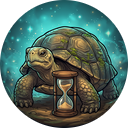
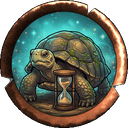
Oberfläche: geschmiedete Ringe der Zug-Medaillons (Hammerschlag, Kerben je Zug), Skript tools/zugmedaillons/schmiede.gd
Claude-Session: https://claude.ai/code/session_016Yw37qCSJMoMyzR6gmxRFS

diff --git a/game/scripts/CharakterAnzeige.cs b/game/scripts/CharakterAnzeige.cs
@@ -254,9 +254,9 @@ public partial class CharakterAnzeige : PanelContainer
     }
 
     /// <summary>
-    /// Ein rundes Medaillon: das gemalte Bild (ohne Rahmen) und darüber ein schlichter, dünner Metallring nach Art des Zugs
-    /// (Persönlichkeit Kupfer, angeboren Gold, erworben Eisen), abgeschrägt wie bei Warcraft-3-Knöpfen: Lichtkante oben links,
-    /// Schatten unten rechts. Ohne Bild steht der Anfangsbuchstabe im Ring.
+    /// Ein rundes Medaillon: das gemalte Bild mit geschmiedetem Metallring nach Art des Zugs (Persönlichkeit Kupfer, angeboren Gold,
+    /// erworben Eisen; Hammerschlag, Kerben je Zug an anderer Stelle – schon im Bild). Fehlt das Bild, zeichnet das Fenster einen
+    /// schlichten, abgeschrägten Ring in derselben Farbe mit dem Anfangsbuchstaben.
     /// </summary>
     private sealed partial class ZugIcon : Control
     {
@@ -291,20 +291,20 @@ public partial class CharakterAnzeige : PanelContainer
 
         public override void _Draw()
         {
+            // Die Bilder bringen ihren geschmiedeten Ring schon mit
+            if (_bild is not null)
+            {
+                DrawTextureRect(_bild, new Rect2(0, 0, Seite, Seite), false);
+                return;
+            }
             var mitte = new Vector2(Seite, Seite) / 2;
             var aussen = Seite / 2f;
-            // Das Bild reicht bis unter die Mitte des Rings, damit kein Spalt bleibt
-            var r = aussen - Ring / 2;
-            if (_bild is not null) DrawTextureRect(_bild, new Rect2(mitte - new Vector2(r, r), new Vector2(r, r) * 2), false);
-            else
-            {
-                DrawCircle(mitte, r, new Color(0.16f, 0.14f, 0.12f));
-                var font = ThemeDB.FallbackFont;
-                var buchstabe = _zug.Name.Length > 0 ? _zug.Name[..1].ToUpperInvariant() : "?";
-                var groesse = font.GetStringSize(buchstabe, HorizontalAlignment.Left, -1, 24);
-                DrawString(font, new Vector2(mitte.X - groesse.X / 2, mitte.Y + 8), buchstabe, HorizontalAlignment.Left, -1, 24, new Color(0.92f, 0.88f, 0.80f));
-            }
-            // Ring in Stücken: je nach Richtung zum Licht heller oder dunkler
+            DrawCircle(mitte, aussen - Ring / 2, new Color(0.16f, 0.14f, 0.12f));
+            var font = ThemeDB.FallbackFont;
+            var buchstabe = _zug.Name.Length > 0 ? _zug.Name[..1].ToUpperInvariant() : "?";
+            var groesse = font.GetStringSize(buchstabe, HorizontalAlignment.Left, -1, 24);
+            DrawString(font, new Vector2(mitte.X - groesse.X / 2, mitte.Y + 8), buchstabe, HorizontalAlignment.Left, -1, 24, new Color(0.92f, 0.88f, 0.80f));
+            // Ring in Stücken (Warcraft-3-Abschrägung): je nach Richtung zum Licht heller oder dunkler
             var farbe = Rahmen(_zug.Art);
             for (var i = 0; i < Stuecke; i++)
             {

diff --git a/docs/ARCHITEKTUR.md b/docs/ARCHITEKTUR.md
@@ -241,7 +241,7 @@ Ein neuer Raum eines Berufs, der keinen der vorhandenen Räume im Modell hat, ka
 - **Zurückhalten:** `Betrieb.Zurueckgehalten` (sortiert, gespeichert) – `Verkaufsware` lässt diese Waren aus. `WareZurueckhalten` schaltet; ein Einkauf, der keine Zutat ist, wird automatisch zurückgehalten. Die KI nutzt nichts davon – Messungen bleiben Wurf für Wurf gleich.
 - **Waren-Icons** (`WarenIcons`): gemalte Knöpfe, 128 × 128, aus `res://assets/oberflaeche/icons/<ware>.png`, Dateiname wie im Bauskript (Umlaute → ae/oe/ue). Angezeigt mit `TextureFilter.LinearWithMipmaps` (Importeinstellung `mipmaps/generate=true`). Fehlt ein Icon, steht der Anfangsbuchstabe da – neue Waren in den Daten brechen also nichts. Zusammengesetzt von `tools/icons/knoepfe_bauen.gd` (Godot, headless: `godot --headless --path game --script ../tools/icons/knoepfe_bauen.gd -- bauen`): Hintergrund nach Beruf, Motiv (freigestellt, mit Lichthof, hellem Saum und Schlagschatten), Rahmen nach Stufe (7 % der Kante, als 9-Slice gestaucht). Beruf und Stufe je Ware liest das Skript aus `wirtschaft.json` (niedrigste Stufe, in der die Ware vorkommt; Waren ohne Betrieb sind Rohstoffe: Holzrahmen, Lehmbraun). Die Zwischenteile liegen als 256-px-PNG in `tools/icons/quellen/` (rahmen, hintergrund, motiv): Ein Neubau oder eine Änderung (z. B. neuer Rahmen) braucht keine neue Bilderzeugung, `quellen <Ordner>` bereitet neue Rohbilder auf. Die Rohbilder stammen von Gemini (siehe Bereichsdatei Oberfläche).
 - **Porträts** (PR #211, `game/scripts/PortraetAnzeige.cs`, `game/assets/shader/portraet.gdshader`): Ein `Control` aus drei Kindern – Hintergrund (`hintergrund_<standgruppe>.webp`), Silhouette als Ersatz, Person (`<volk>/<geschlecht>_<gesicht>_<alter>_<kleidung>.webp` unter `res://assets/oberflaeche/portraets/`, 512 px, freigestellt). Nur die Person trägt das Material: Der Shader färbt Haar und Augen über Graustufen-Masken (`…_haar.webp`, `…_augen.webp`; weiß = Haar bzw. Iris) auf die Palettenfarbe um – die Helligkeit des Bildes bleibt –, blendet im Augenband das Bild mit geschlossenen Augen (`<geschlecht>_<gesicht>_<alter>_zu.webp`) ein (Blinzeln), skaliert um „unten Mitte“ (Atmen, ±0,6 %) und verschiebt nach unten (Nicken). Kerzenlicht ist ein Farbstich (`Modulate`) auf dem ganzen Control, aus in der Grafikstufe Niedrig. Bildformat .webp (Rückfall .png). Fehlende Dateien sind kein Fehler: ohne Person eine Silhouette, ohne Masken die Farben des Bildes, ohne `_zu`-Bild kein Blinzeln. Bilder werden beim ersten Laden mit Mipmaps versehen (`Laden`), sonst flimmert das 512-px-Bild bei 64 px. `Zeigen(Familienbuch, Person)` holt Stand, Kleidung und Alter aus dem Kern und lädt nur bei einer Änderung neu; Hilfen: `ZeigenHaus` (Oberhaupt eines Hauses), `ZeigenAmt`, `ZeigenRatsherr`. Größen: `Gross` 256, `Mittel` 128, `Klein` 64. Die Seite „Euer Oberhaupt“ steht in `Hauptmenue.cs` (`OberhauptTafel`).
-- **Charakterfenster** (PR #227, `game/scripts/CharakterAnzeige.cs`, `Hauptszene.Charakter.cs`): Ein frei ziehbares Fenster (`Fensterrahmen`, festhaltbar, Standardplatz rechts) in der Oberfläche der Hauptszene. Geöffnet wird es über zwei statische Haken in `PortraetAnzeige` (`PersonOeffnen`, `RatsherrOeffnen`), die die Hauptszene setzt: `Zeigen(Familienbuch, Person)` und `ZeigenRatsherr` binden das Porträt an die Person, ein Linksklick ruft den Haken – so öffnet jedes Porträt im Spiel das Fenster, ohne dass die Tafeln etwas davon wissen. Porträts ohne Person (Hauptmenü, Personalbuch der Vorarbeiter) öffnen nichts (`Zeigen` mit Volk, Geschlecht … löst die Bindung). Das Fenster hält einen Verlauf (Klick auf ein Familienmitglied, „Zurück“), baut sich zum Jahreswechsel neu auf und liest nur `Person.Anlage/Talent/Zuege`, `Familienbuch.Verwandte` und `Ratsherr.Zuege/Bestechlichkeit`. `SterneFeld` zeichnet die Sterne selbst (Polygon, geschnitten mit Geometry2D: golden Anlage, grün Zugbonus, rot Abzug), `ZugIcon` das runde Medaillon (64 px): das Bild `res://assets/oberflaeche/zuege/<kennung>.png` (128 px, rund, ohne Rahmen) und darüber einen selbst gezeichneten, 4 px dünnen Ring in der Farbe der `Zugart` (Kupfer, Gold, Eisen), in 72 Stücken je nach Richtung zum Licht (oben links) heller oder dunkler, mit feinen dunklen Kanten; fehlt das Bild, steht der Anfangsbuchstabe im Ring. Der Lexikon-Platzhalter `{wert:zuege_liste}` listet alle Züge mit Wirkung aus dem Katalog.
+- **Charakterfenster** (PR #227, `game/scripts/CharakterAnzeige.cs`, `Hauptszene.Charakter.cs`): Ein frei ziehbares Fenster (`Fensterrahmen`, festhaltbar, Standardplatz rechts) in der Oberfläche der Hauptszene. Geöffnet wird es über zwei statische Haken in `PortraetAnzeige` (`PersonOeffnen`, `RatsherrOeffnen`), die die Hauptszene setzt: `Zeigen(Familienbuch, Person)` und `ZeigenRatsherr` binden das Porträt an die Person, ein Linksklick ruft den Haken – so öffnet jedes Porträt im Spiel das Fenster, ohne dass die Tafeln etwas davon wissen. Porträts ohne Person (Hauptmenü, Personalbuch der Vorarbeiter) öffnen nichts (`Zeigen` mit Volk, Geschlecht … löst die Bindung). Das Fenster hält einen Verlauf (Klick auf ein Familienmitglied, „Zurück“), baut sich zum Jahreswechsel neu auf und liest nur `Person.Anlage/Talent/Zuege`, `Familienbuch.Verwandte` und `Ratsherr.Zuege/Bestechlichkeit`. `SterneFeld` zeichnet die Sterne selbst (Polygon, geschnitten mit Geometry2D: golden Anlage, grün Zugbonus, rot Abzug), `ZugIcon` das runde Medaillon (64 px): das Bild `res://assets/oberflaeche/zuege/<kennung>.png` (128 px) mit eingebackenem, geschmiedetem Ring nach Art (Kupfer, Gold, Eisen; gerechnet vom Skript `tools/zugmedaillons/schmiede.gd`); fehlt das Bild, zeichnet `ZugIcon` einen schlichten, 4 px dünnen Ring in der Farbe der `Zugart`, in 72 Stücken je nach Richtung zum Licht (oben links) heller oder dunkler, mit dem Anfangsbuchstaben. Der Lexikon-Platzhalter `{wert:zuege_liste}` listet alle Züge mit Wirkung aus dem Katalog.
 - **Schriften** (`game/scripts/Schriften.cs`, Dateien in `res://assets/oberflaeche/schriften/`): **Alegreya** für allen Text, **Germania One** (gebrochene Schrift) für Überschriften und Namen in der Stadt. Der Autoload `Fenster` ruft beim Start `Schriften.Einrichten` auf: Alegreya wird Schrift des Standard-Themas und Ersatzschrift (`ThemeDB`), und ein Ereignis `SceneTree.NodeAdded` gibt jedem Label mit Größe ab 20 px Germania One, allen kleineren Labels mit fester Größe 1 px mehr (Alegreya hat kleinere Kleinbuchstaben als die alte Schrift). So brauchen die Tafeln – auch die anderer Chats – keine eigene Zeile. Alegreya läuft mit den OpenType-Merkmalen `lnum` (Ziffern in Versalhöhe statt Mediävalziffern) und `tnum` (alle Ziffern gleich breit), damit Gulden-Spalten sauber untereinander stehen. Fehlt Germania ein Zeichen, springt Alegreya ein (`Fallbacks`). Beim Beenden ruft `Fenster._ExitTree` `Schriften.Freigeben` (Thema und Ersatzschrift lassen los, die statischen Schriften werden freigegeben) und lässt die Müllabfuhr von C# laufen (`GC.Collect`, `GC.WaitForPendingFinalizers`), solange Godot noch ganz steht – sonst kann die letzte Freigabe nach dem Textserver kommen (Leck „DummyTexture“ oder Absturz im Rauchtest, PR #100).
 - **Namen in der Stadt:** `Beschriftung(…, kennung)` in der Stadtansicht: Mit Kennung (dieselbe wie die Klickfläche) ist die Beschriftung zunächst unsichtbar. `BeschriftungenZeigen()` schießt jedes Bild einen Strahl unter die Maus (`KennungBei`, wie beim Klick) und zeigt den Namen des Gebäudes darunter, des ausgewählten (`Stadtansicht.Auswahl`, setzt die Hauptszene) und mit gedrückter Alt-Taste alle. Steht die Maus über einer Tafel (`GuiGetHoveredControl`), zählt die Stadt dahinter nicht. Im Innenraum sind die Namen aus; Beschriftungen ohne Kennung (Kistenschilder, Infotafeln) bleiben immer sichtbar.
 - **Vollbild, Kantenglättung, Schattenqualität, Bloom, Umgebungsverdeckung, indirektes Licht und FSR:** Autoload `Fenster` (`project.godot` → `[autoload]`) hält die Einstellungen, wendet sie beim Start an und speichert sie in `user://einstellungen.cfg` (Abschnitt `anzeige`, Schlüssel `vollbild`, `kantenglaettung`, `schattenqualitaet`, `bloom`, `bloomstaerke`, `ssao`, `ssil`, `fsr` und `renderaufloesung`; fehlen sie in einer alten Datei, gilt Bloom An mit 50 %, Umgebungsverdeckung Mittel, indirektes Licht aus, FSR aus mit 67 %). Der Bloom ist der Glow der beiden `Environment`s (Stadt `_umgebung`, Raumansicht `_raumUmgebung`): `Fenster.BloomSetzen` löst das Ereignis `BloomGeaendert` aus, die Stadtansicht stellt beide Umgebungen sofort um (`BloomAnwenden`, siehe „Bloom“ unten). Die Schattenqualität setzt Größe der Schattenkarte und Filter am `RenderingServer`; Bias und Blur der Sonne passt die Stadtansicht im nächsten Bild selbst an (siehe „Schatten“). Die Kantenglättung wird am Hauptfenster (`GetTree().Root`) gesetzt: `Msaa3D`, `ScreenSpaceAA` (FXAA/SMAA) oder `UseTaa` – immer nur eines. **FSR 2.2** (`Fenster.FsrSetzen`) setzt am selben Fenster `Scaling3DMode = Fsr2` und `Scaling3DScale = Prozent/100` (aus: `Bilinear`, 1,0; Godot stellt den Mipmap-Bias dabei selbst nach `log2(Scale)` ein). Solange FSR an ist, hält `KantenglaettungAnwenden` MSAA, FXAA/SMAA und TAA aus (FSR 2 ist selbst ein zeitliches Verfahren mit Kantenglättung: Godot schaltet TAA dabei von selbst ab, Warnung „FSR 2 or MetalFX Temporal is not compatible with TAA“ in `renderer_viewport.cpp`; MSAA liefe auf dem kleinen Bild und kostete Leistung für Kanten, die FSR aus den Bildfolgen ohnehin glättet, FXAA/SMAA würden das scharf hochgerechnete Bild wieder verwischen); die gewählte Art bleibt in `AktuelleKantenglaettung` und gilt wieder, wenn FSR aus ist, `EinstellungenAnzeige` graut die Auswahl solange aus. Die **Umgebungsverdeckung** (SSAO) und das **indirekte Licht** (SSIL) sind Felder des `Environment`: `Fenster.UmgebungsverdeckungSetzen` und `IndirektesLichtSetzen` lösen `VerdeckungGeaendert` aus, die Stadtansicht stellt beide Umgebungen sofort um (`VerdeckungAnwenden`, siehe „Umgebungsverdeckung“ unten); die Güte (Probenzahl, halbe oder volle Auflösung) setzt `Fenster` global am `RenderingServer` (`EnvironmentSetSsaoQuality`, `EnvironmentSetSsilQuality`). Alle 3D-Ansichten zeichnen in dieses Fenster, eigene `SubViewport`s gibt es nicht; käme einer dazu, muss er die Einstellung übernehmen. Das Fenster `EinstellungenAnzeige` wird im Hauptmenü und im Spielmenü (an dessen Stelle, Esc führt zurück) verwendet.

diff --git a/README.md b/README.md
@@ -321,7 +321,7 @@ Zum Ausprobieren (gilt nur für diesen Start): `--voreinstellung=Ultra`, `--tilt
 
 **Porträts.** Jede Person der Dynastien hat ein gemaltes Porträt (kolorierter Holzschnitt): der Hintergrund zeigt den Stand (Lehmwand, Holzvertäfelung, Wandteppich, Gewölbe), die Kleidung wechselt beim Aufstieg zum Patrizier, das Alter ändert das Gesicht (Kind, jung, mittel, alt). Beim Start wählst du auf der Seite **„Euer Oberhaupt“** Volk, Geschlecht, eines von fünf Gesichtern und Haar- und Augenfarbe (nur Farben, die zum Volk passen); Kinder erben Gesicht und Farben der Eltern. Die Bilder leben ein wenig: Sie **blinzeln**, **atmen**, flackern im **Kerzenlicht** (in der Grafikstufe Niedrig aus) und **nicken** bei Zustimmung im Rat. Zu sehen sind sie oben links in der Kopfzeile, in der **Familie** (Oberhaupt, Ehepartner, Kinder, Brautschau), im **Rat** (Inhaber der Ämter), in der **Ratssitzung** (wer gerade spricht oder stimmt) und im **Bericht** bei den Rivalen. Fehlt ein Bild (die Porträts der übrigen Völker folgen), steht eine Silhouette vor dem Hintergrund.
 
-**Charakterfenster.** Ein Klick auf ein Porträt (Familie, Rat, Rivalen im Bericht, Kopfzeile) öffnet das Charakterfenster: großes Porträt, Name, Volk, Alter, Rolle im Haus, Stand, Amt und Glaube. Die **Talente** stehen als sechs Sterne: golden die Anlage, **grün** die Sterne, die Charakterzüge dazugeben, **rot** die, die ein Zug oder eine Krankheit abzieht; der Tooltip rechnet vor („Anlage 3, Gierig +1, Husten −1“). Die **Charakterzüge** sind runde, gemalte Medaillons in drei Gruppen mit schlichtem Metallring – Persönlichkeit (Kupfer), angeboren (Gold), erworben (Eisen), jedes mit eigenem Motiv und eigener Leuchtfarbe (Gierig eine Hand voller Gulden, Mutig ein Löwe, Klug eine Eule auf einem Buch …); der Tooltip nennt Beschreibung, Wirkung und Gegenteil und verweist ins Lexikon (Eintrag „Charakterzüge“ mit allen Zügen). Unten steht die **Familie** als kleine Porträts: Ein Klick darauf zeigt deren Fenster, „‹ Zurück“ geht zur vorigen Person. Das Fenster lässt sich ziehen und mit der Nadel festhalten. Bei Ratsherren stehen Volk, Amt, Glaube, Züge und die **Bestechlichkeit** (wie stark Geschenke wirken) – ohne Talente und Familie. Charakterzüge gibt es erst in neuen Partien; ältere Spielstände laden ohne sie.
+**Charakterfenster.** Ein Klick auf ein Porträt (Familie, Rat, Rivalen im Bericht, Kopfzeile) öffnet das Charakterfenster: großes Porträt, Name, Volk, Alter, Rolle im Haus, Stand, Amt und Glaube. Die **Talente** stehen als sechs Sterne: golden die Anlage, **grün** die Sterne, die Charakterzüge dazugeben, **rot** die, die ein Zug oder eine Krankheit abzieht; der Tooltip rechnet vor („Anlage 3, Gierig +1, Husten −1“). Die **Charakterzüge** sind runde, gemalte Medaillons in drei Gruppen mit geschmiedetem Metallring (Hammerschlag, Kerben von Hieben) – Persönlichkeit (Kupfer), angeboren (Gold), erworben (Eisen), jedes mit eigenem Motiv und eigener Leuchtfarbe (Gierig eine Hand voller Gulden, Mutig ein Löwe, Klug eine Eule auf einem Buch …); der Tooltip nennt Beschreibung, Wirkung und Gegenteil und verweist ins Lexikon (Eintrag „Charakterzüge“ mit allen Zügen). Unten steht die **Familie** als kleine Porträts: Ein Klick darauf zeigt deren Fenster, „‹ Zurück“ geht zur vorigen Person. Das Fenster lässt sich ziehen und mit der Nadel festhalten. Bei Ratsherren stehen Volk, Amt, Glaube, Züge und die **Bestechlichkeit** (wie stark Geschenke wirken) – ohne Talente und Familie. Charakterzüge gibt es erst in neuen Partien; ältere Spielstände laden ohne sie.
 
 **Talente und Ausbildung.** Jede Person hat fünf Talente mit 0 bis 6 Sternen: **Verhandeln** (bessere Markterlöse), **Handwerkskunst** (mehr Leistung aller Arbeitskräfte), **Bei Nacht und Nebel** (Gaunerstücke gelingen öfter, Zeugen sehen weniger), **Kampf** (stärkere Wegelagerer, besser geschützte eigene Karren) und **Rhetorik** (Ratswahlen, Plädoyer vor Gericht, Brautgeschenke). Es zählen die Talente des Oberhaupts, der Erbe ist also eine echte Entscheidung. Die Völker bringen Anlagen mit: Zwerge sind die besten Handwerker, Elben die besten Redner, Halblinge die geschicktesten Gauner. Dazu kommen **Völkerboni je Beruf** (±5 % Leistung und damit Erfahrung, nach dem Volk des Oberhaupts): Menschen als Tischler und Gardist +5 % und ohne Schwächen; Zwerge als Schmied, Steinmetz und Geldleiher +5 %, als Dieb und Parfumeur −5 %; Elben als Alchimist, Prediger und Parfumeur +5 %, als Steinmetz und Gardist −5 %; Halblinge als Wirt und Dieb +5 %, als Schmied und Gardist −5 %. Die KI wählt ihre Zweitberufe danach. Kinder erben die Hälfte vom Mittel der Eltern, den Rest von ihrem Volk, und die Brautschau zeigt die Stärken jedes Kandidaten. In der zweiten Hälfte der Kindheit lernen Kinder in einer **Ausbildung** dazu: Zunftlehre, Kontorlehre, Klosterschule, Fechtmeister, Universität (ab Bürger) oder die Gasse. Haus Eisenbart bildet seine Kinder ebenfalls aus und setzt das begabteste als Erben ein.
 

diff --git a/docs/bereiche/oberflaeche.md b/docs/bereiche/oberflaeche.md
@@ -304,7 +304,7 @@ So wird eingetragen (damit sich die Chats nie an derselben Stelle treffen):
 | Umsetzung Fenster | `CharakterAnzeige`: frei ziehbares, festhaltbares Fenster (Standardplatz rechts, 780 px breit); links großes Porträt, rechts Name, Volk, Alter, Rolle, Stand, Amt, Glaube, Krankheit und die fünf Talente; darunter Charakterzüge in drei Gruppen, unten die Familie (Eltern, Ehepartner, Kinder) als kleine Porträts mit „‹ Zurück“. Ratsherren: ohne Talente und Familie, mit Bestechlichkeit. Kinder zeigen „Die Persönlichkeit entwickelt sich erst mit der Volljährigkeit“. Öffnen über zwei Haken in `PortraetAnzeige` (`PersonOeffnen`, `RatsherrOeffnen`): jedes Porträt, das mit `Zeigen(Familienbuch, Person)` oder `ZeigenRatsherr` gefüllt wird, ist klickbar (Familie, Erbfolge, Brautschau, Rat, Kopfzeile, Rivalen im Bericht); Porträts mit Volk-Angaben (Hauptmenü, Personalbuch der Vorarbeiter) nicht. | 28.10.2026 |
 | Umsetzung Talente | Sechs Sterne je Talent, selbst gezeichnet: golden = Anlage, grün = Zugbonus, rot = Abzug durch Zug oder Krankheit; dahinter die Zahl mit Unterschied („4 (+1½)“); Tooltip: „Anlage 3, Gierig +1, Husten −1“ mit Lexikon-Verweisen. | 28.10.2026 |
 | Umsetzung Züge | Runde Medaillons (64 px) aus `res://assets/oberflaeche/zuege/<kennung>.png` (kleingeschrieben, 128 px, Rahmen eingemalt); ohne Bild ein gezeichneter Ring nach Art mit Anfangsbuchstaben. Tooltip: Name (Art), Beschreibung, Wirkung, Gegenteil, Verweis auf das Lexikon. Lexikon-Eintrag „Charakterzüge“ (Gruppe Haus und Familie) mit dem neuen Platzhalter `{wert:zuege_liste}`. | 28.10.2026 |
-| Stil der Zug-Icons | **Ausnahme vom Holzschnitt** nur für die Zug-Icons: kräftig gemalt mit dunklem Umriss und farbigem Leuchten je Zug (Farbe nach Zug, Rahmen nach Art). Motive als Stichpunkte vom Teamleiter, Bilder vom Nutzer mit Gemini erzeugt (Pilger und Gelehrt mit ChatGPT), Teamleiter schneidet sie rund aus; den Ring zeichnet seit PR #230 das Spiel. Klug ist eine Eule auf einem Buch, Hochmütig ein stolzer Edelmann. Ein LoRA-Training war geplant und ist verworfen. Entscheidung des Nutzers. | 28.10.2026 |
+| Stil der Zug-Icons | **Ausnahme vom Holzschnitt** nur für die Zug-Icons: kräftig gemalt mit dunklem Umriss und farbigem Leuchten je Zug (Farbe nach Zug, Rahmen nach Art). Motive als Stichpunkte vom Teamleiter, Bilder vom Nutzer mit Gemini erzeugt (Pilger und Gelehrt mit ChatGPT), Teamleiter schneidet sie rund aus; den geschmiedeten Ring rechnet seit PR #230 ein Skript dazu. Klug ist eine Eule auf einem Buch, Hochmütig ein stolzer Edelmann. Ein LoRA-Training war geplant und ist verworfen. Entscheidung des Nutzers. | 28.10.2026 |
 
 ### Ränder der Zug-Medaillons (PR #230)
 
@@ -312,6 +312,7 @@ So wird eingetragen (damit sich die Chats nie an derselben Stelle treffen):
 |---|---|---|
 | Form und Rand | Rund bleiben, aber ein dünner, schlichter Ring nach dem Vorbild der Warcraft-3-Knöpfe (nur die Machart): 4 px bei 64 px, abgeschrägt mit Lichtkante oben links und Schatten unten rechts, ohne Ornament und Nieten. Das Spiel zeichnet den Ring selbst (`ZugIcon`), die Bilder sind ohne Rahmen. Entscheidung des Nutzers. | 28.10.2026 |
 | Farben | Persönlichkeit **Kupfer** (rötlich), angeboren **Gold** (statt Silber), erworben **Eisen** – drei klar getrennte Töne. Entscheidung des Nutzers. | 28.10.2026 |
+| Machart (ersetzt „schlicht“) | Der schlichte Ring war dem Nutzer zu wenig: Der Ring ist jetzt **geschmiedet** – gewölbtes Profil mit Glanz und Spiegelung (oben hell, unten dunkel), Hammerschlag-Dellen, Schleifspuren und 2–3 **Kerben von Schwert- oder Axthieben** mit blank geschlagener Kante, je Zug an anderer Stelle (aus der Kennung gewürfelt), Licht immer oben links. Gerechnet vom Skript `tools/zugmedaillons/schmiede.gd` (256 px, gespeichert 128 px) und ins Bild gebacken; der gezeichnete WC3-Ring bleibt nur für Züge ohne Bild. Entscheidung des Nutzers. | 28.10.2026 |
 
 ### Kartenwahl und Entwickler-Option (PR #229)
 
